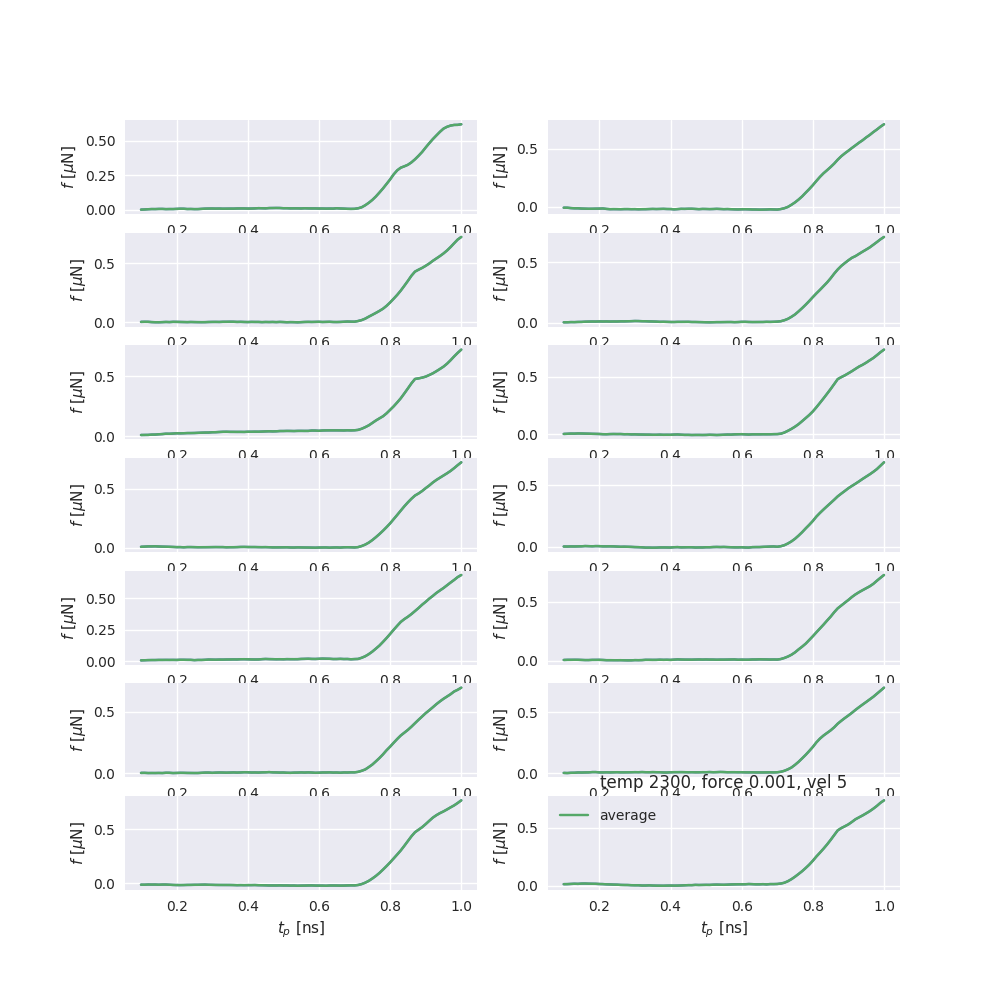
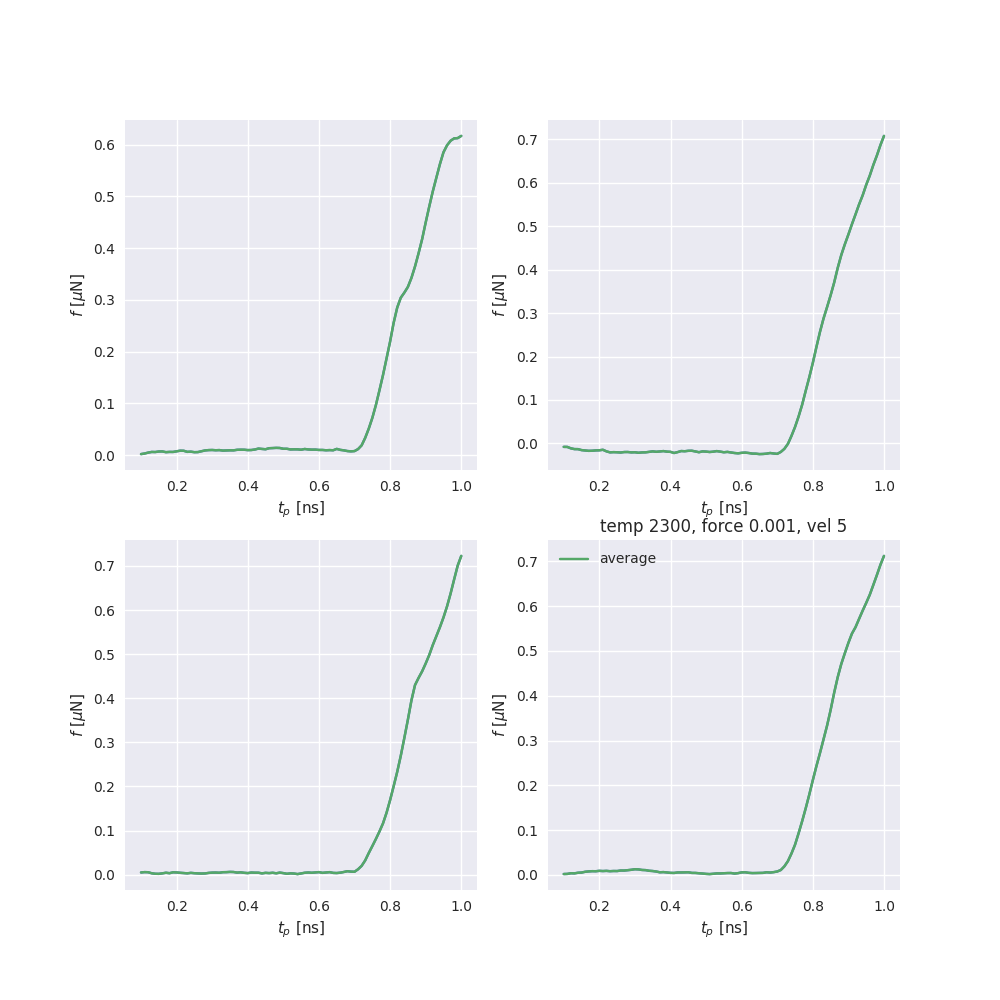
ran four new push runs

diff --git a/python/plot/plot_load_curves.py b/python/plot/plot_load_curves.py
@@ -334,11 +334,11 @@ def plot_production(temp, vel, force, asperities, orientation, grid, erratic):
     template_lc = load_curve_dir + 'load_curves_temp{}_vel{}_force{}_asp{}_initnum{}_seed*_errgrid{}_{}.txt'
     template_ms = max_static_dir + 'max_static_temp{}_vel{}_force{}_asp{}_initnum{}_seed*_errgrid{}_{}.txt'
 
-    fig, axs = plt.subplots(7,2, figsize = (10,10))
+    fig, axs = plt.subplots(2,2, figsize = (10,10))
     axs = axs.ravel()
    
     print(template_lc)
-    for i, initnum in enumerate(range(14)):
+    for i, initnum in enumerate(range(4)):
         
         lc_files = template_lc.format(temp, vel, force, asperities, initnum, grid[0], grid[1])
         print(lc_files)

diff --git a/python/post/get_load_curves.py b/python/post/get_load_curves.py
@@ -82,7 +82,7 @@ if __name__ == '__main__':
     #initnum = 0
     force = 0.001
     #for force in [0.0001, 0.001, 0.01, 0]:
-    for initnum in range(0, 15):
+    for initnum in range(0, 4):
         print(initnum)
         logfiles = f'../../simulations/sys_asp{asperities}_uc{uc}/production/sim_temp{temp}_force{force}_asp{asperities}_time{time}_initnum{initnum}_seed*_errgrid4_4/log.lammps'
         for logfile in glob(logfiles):
